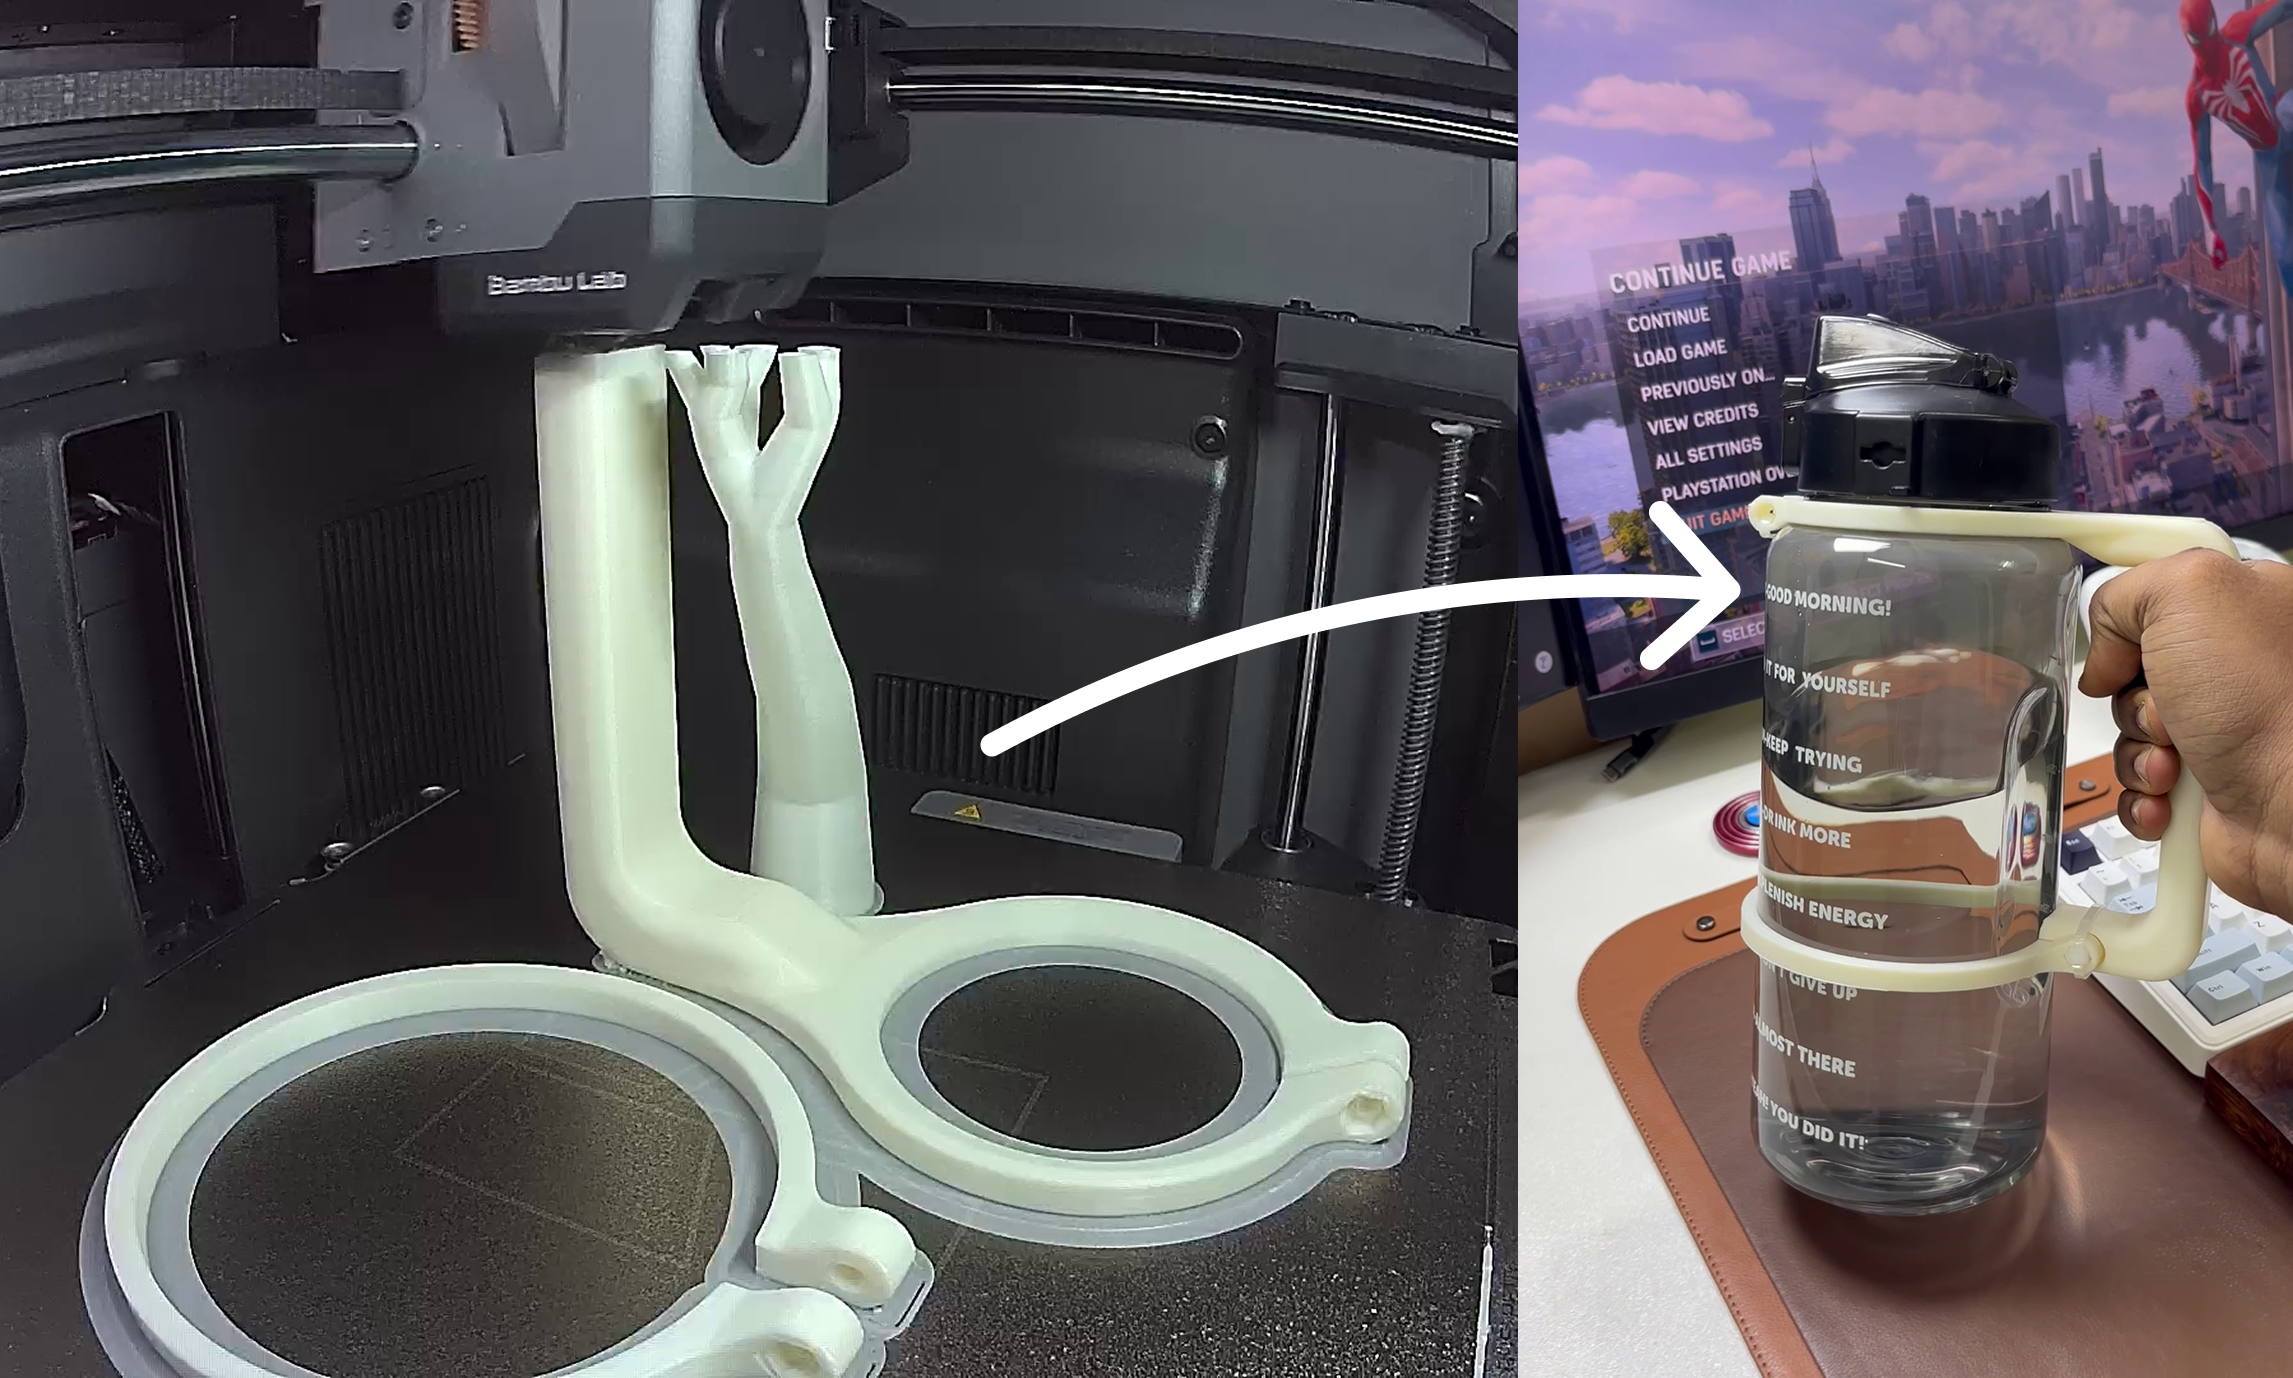
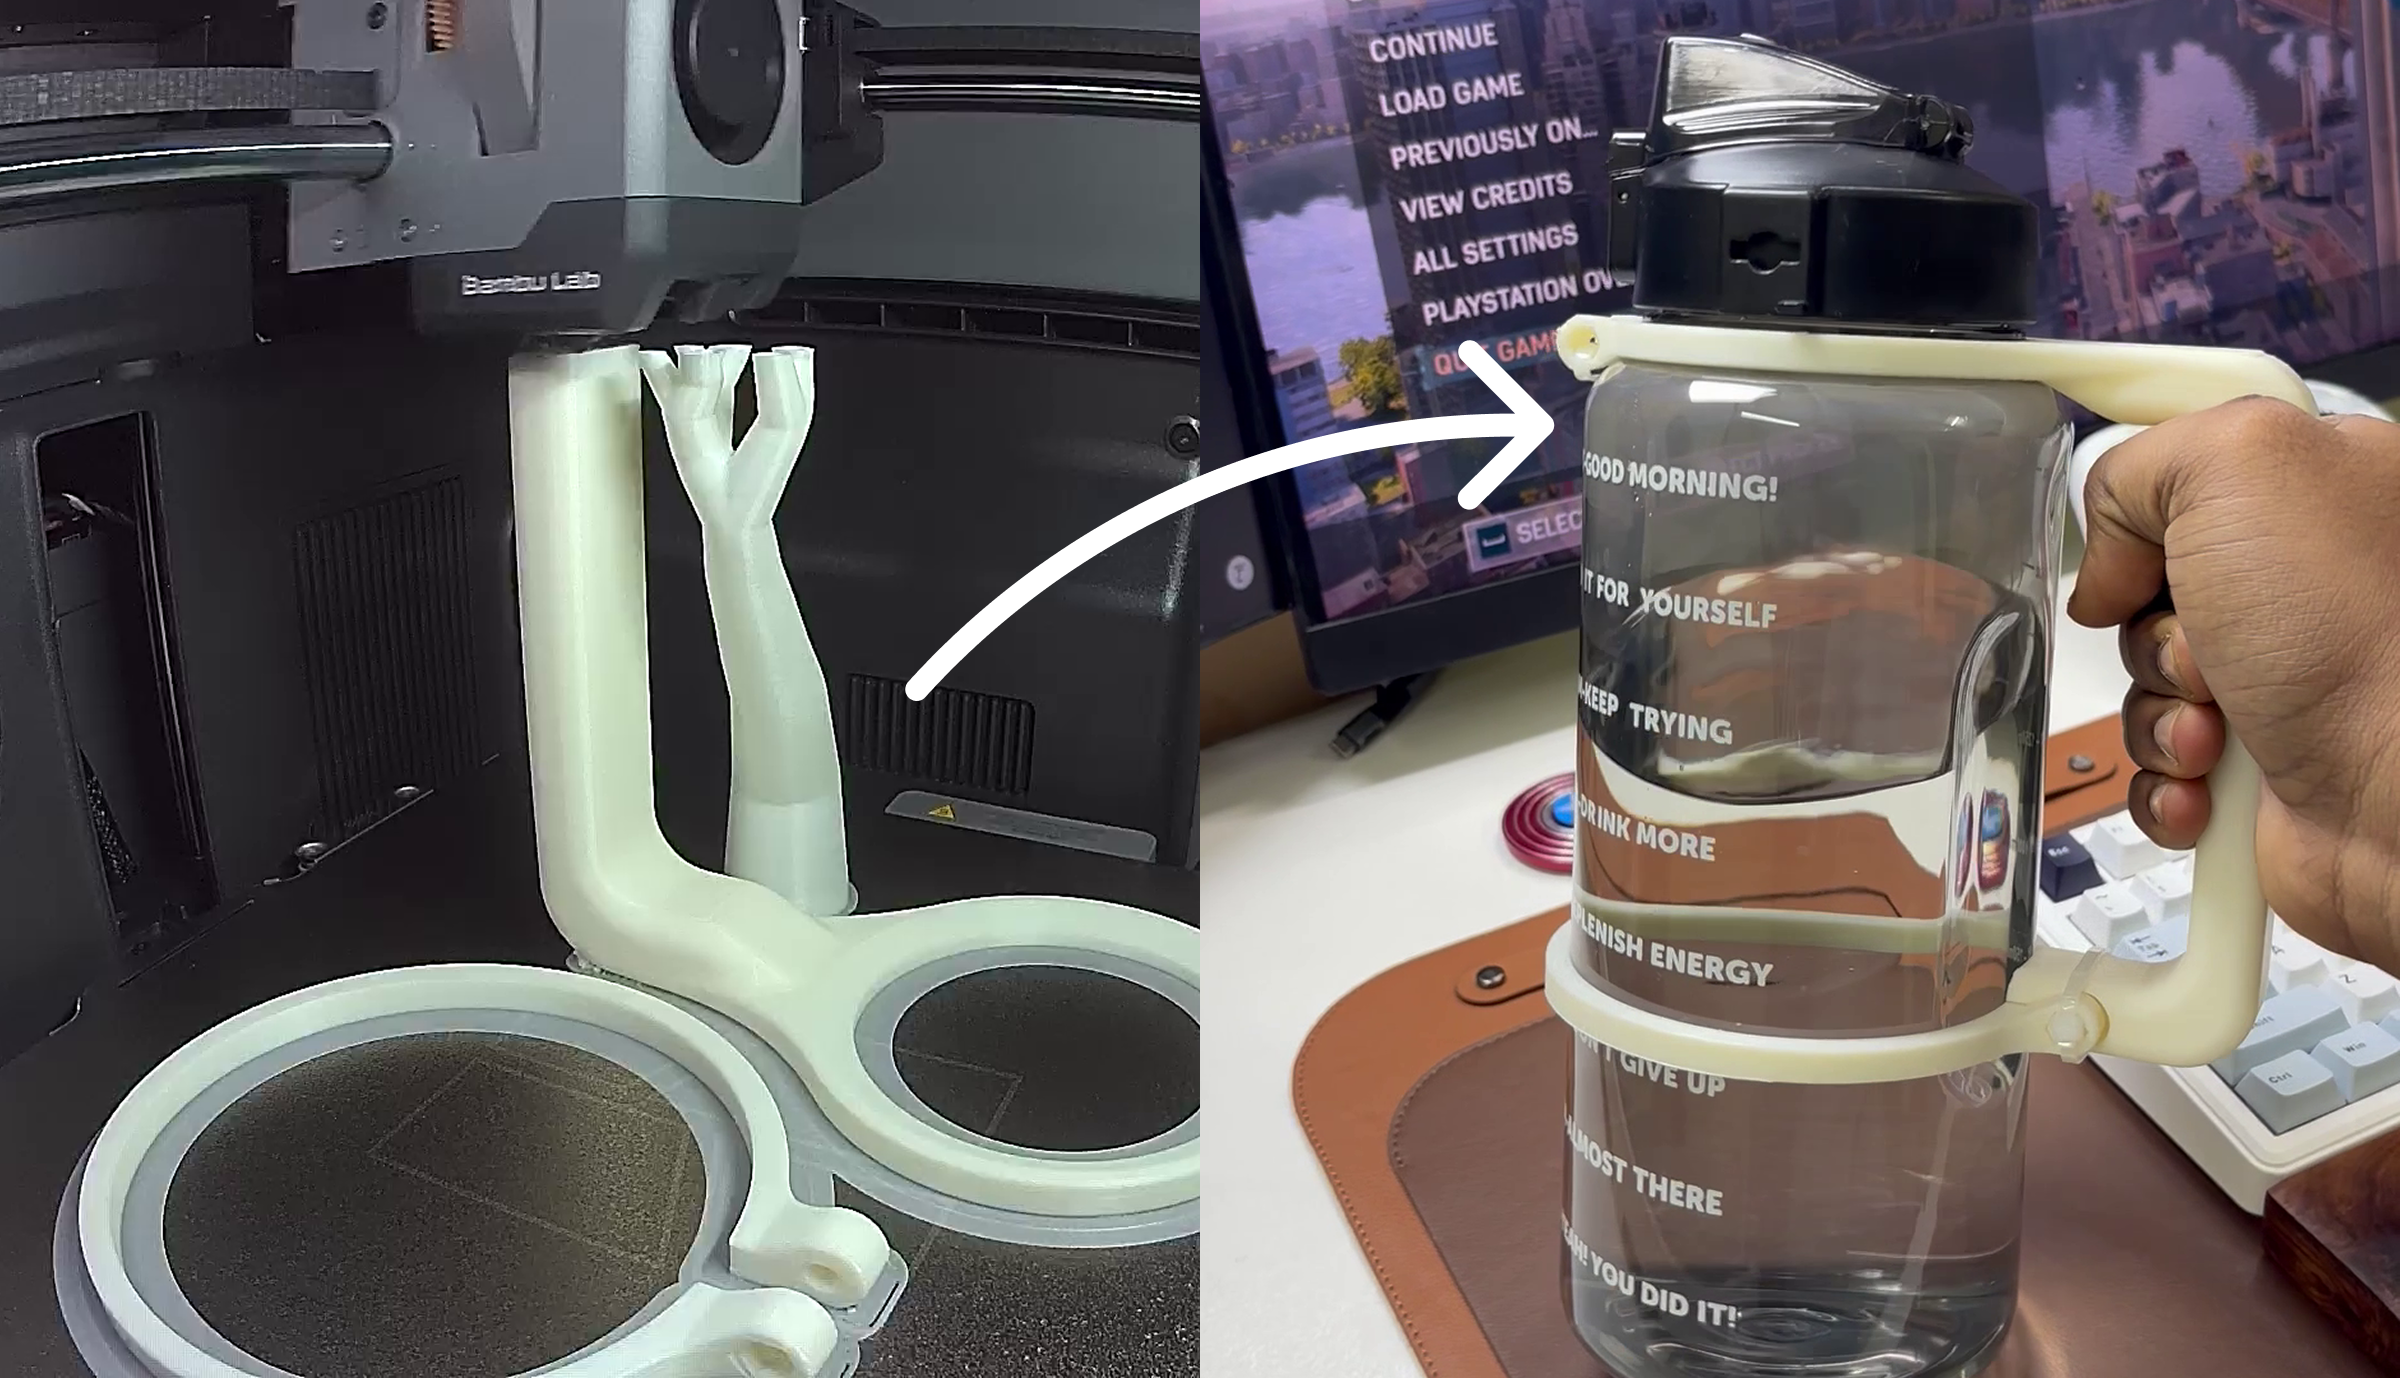
feat: add footer component, stylesheet, and hover image assets

diff --git a/jaspr/lib/components/layout/footer.dart b/jaspr/lib/components/layout/footer.dart
@@ -11,51 +11,53 @@ class PortfolioFooter extends StatelessComponent {
   @override
   Component build(BuildContext context) {
     return footer(classes: classes, [
-      div(classes: 'social-links', [
-        a(
-          href: PortfolioData.mailtoUrl,
-          attributes: {'aria-label': 'Email'},
-          classes: 'social-icon-btn',
-          [
-            RawText(
-              '<svg xmlns="http://www.w3.org/2000/svg" viewBox="0 0 24 24" width="20" height="20" fill="currentColor"><path d="M20 4H4c-1.1 0-1.99.9-1.99 2L2 18c0 1.1.9 2 2 2h16c1.1 0 2-.9 2-2V6c0-1.1-.9-2-2-2zm0 4l-8 5-8-5V6l8 5 8-5v2z"/></svg>',
-            ),
-          ],
-        ),
-        a(
-          href: PortfolioData.linkedinUrl,
-          target: Target.blank,
-          attributes: {'aria-label': 'LinkedIn', 'rel': 'noopener noreferrer'},
-          classes: 'social-icon-btn',
-          [
-            RawText(
-              '<svg xmlns="http://www.w3.org/2000/svg" viewBox="0 0 24 24" width="20" height="20" fill="currentColor"><path d="M19 3a2 2 0 0 1 2 2v14a2 2 0 0 1-2 2H5a2 2 0 0 1-2-2V5a2 2 0 0 1 2-2h14m-.5 15.5v-5.3a3.26 3.26 0 0 0-3.26-3.26c-.85 0-1.84.52-2.28 1.3v-1.11h-2.79v8.37h2.79v-4.93c0-.77.62-1.4 1.39-1.4a1.4 1.4 0 0 1 1.4 1.4v4.93h2.75M6.88 8.56a1.68 1.68 0 0 0 1.68-1.68c0-.93-.75-1.69-1.68-1.69a1.69 1.69 0 0 0-1.69 1.69c0 .93.76 1.68 1.69 1.68m1.39 9.94v-8.37H5.5v8.37h2.77z"/></svg>',
-            ),
-          ],
-        ),
-        a(
-          href: PortfolioData.youtubeUrl,
-          target: Target.blank,
-          attributes: {'aria-label': 'YouTube', 'rel': 'noopener noreferrer'},
-          classes: 'social-icon-btn',
-          [
-            RawText(
-              '<svg xmlns="http://www.w3.org/2000/svg" viewBox="0 0 24 24" width="20" height="20" fill="currentColor"><path d="M23.498 6.186a3.016 3.016 0 0 0-2.122-2.136C19.505 3.545 12 3.545 12 3.545s-7.505 0-9.377.505A3.017 3.017 0 0 0 .502 6.186C0 8.07 0 12 0 12s0 3.93.502 5.814a3.016 3.016 0 0 0 2.122 2.136c1.871.505 9.376.505 9.376.505s7.505 0 9.377-.505a3.015 3.015 0 0 0 2.122-2.136C24 15.93 24 12 24 12s0-3.93-.502-5.814zM9.545 15.568V8.432L15.818 12l-6.273 3.568z"/></svg>',
-            ),
-          ],
-        ),
-        a(
-          href: PortfolioData.instagramUrl,
-          target: Target.blank,
-          attributes: {'aria-label': 'Instagram', 'rel': 'noopener noreferrer'},
-          classes: 'social-icon-btn',
-          [
-            RawText(
-              '<svg xmlns="http://www.w3.org/2000/svg" viewBox="0 0 24 24" width="20" height="20" fill="currentColor"><path d="M12 2.163c3.204 0 3.584.012 4.85.07 3.252.148 4.771 1.691 4.919 4.919.058 1.265.069 1.645.069 4.849 0 3.205-.012 3.584-.069 4.849-.149 3.225-1.664 4.771-4.919 4.919-1.266.058-1.644.07-4.85.07-3.204 0-3.584-.012-4.849-.07-3.26-.149-4.771-1.699-4.919-4.92-.058-1.265-.07-1.644-.07-4.849 0-3.204.013-3.583.07-4.849.149-3.227 1.664-4.771 4.919-4.919 1.266-.057 1.645-.069 4.849-.069zm0-2.163c-3.259 0-3.667.014-4.947.072-4.358.2-6.78 2.618-6.98 6.98-.059 1.281-.073 1.689-.073 4.948 0 3.259.014 3.668.072 4.948.2 4.358 2.618 6.78 6.98 6.98 1.281.058 1.689.072 4.948.072 3.259 0 3.668-.014 4.948-.072 4.354-.2 6.782-2.618 6.979-6.98.059-1.28.073-1.689.073-4.948 0-3.259-.014-3.667-.072-4.947-.196-4.354-2.617-6.78-6.979-6.98-1.281-.059-1.69-.073-4.949-.073zm0 5.838c-3.403 0-6.162 2.759-6.162 6.162s2.759 6.163 6.162 6.163 6.162-2.759 6.162-6.163c0-3.403-2.759-6.162-6.162-6.162zm0 10.162c-2.209 0-4-1.79-4-4 0-2.209 1.791-4 4-4s4 1.791 4 4c0 2.21-1.791 4-4 4zm6.406-11.845c-.796 0-1.441.645-1.441 1.44s.645 1.44 1.441 1.44c.795 0 1.439-.645 1.439-1.44s-.644-1.44-1.439-1.44z"/></svg>',
-            ),
-          ],
-        ),
-      ]),
+      if (classes == 'sidebar-footer') ...[
+        div(classes: 'social-links', [
+          a(
+            href: PortfolioData.mailtoUrl,
+            attributes: {'aria-label': 'Email'},
+            classes: 'social-icon-btn',
+            [
+              RawText(
+                '<svg xmlns="http://www.w3.org/2000/svg" viewBox="0 0 24 24" width="20" height="20" fill="currentColor"><path d="M20 4H4c-1.1 0-1.99.9-1.99 2L2 18c0 1.1.9 2 2 2h16c1.1 0 2-.9 2-2V6c0-1.1-.9-2-2-2zm0 4l-8 5-8-5V6l8 5 8-5v2z"/></svg>',
+              ),
+            ],
+          ),
+          a(
+            href: PortfolioData.linkedinUrl,
+            target: Target.blank,
+            attributes: {'aria-label': 'LinkedIn', 'rel': 'noopener noreferrer'},
+            classes: 'social-icon-btn',
+            [
+              RawText(
+                '<svg xmlns="http://www.w3.org/2000/svg" viewBox="0 0 24 24" width="20" height="20" fill="currentColor"><path d="M19 3a2 2 0 0 1 2 2v14a2 2 0 0 1-2 2H5a2 2 0 0 1-2-2V5a2 2 0 0 1 2-2h14m-.5 15.5v-5.3a3.26 3.26 0 0 0-3.26-3.26c-.85 0-1.84.52-2.28 1.3v-1.11h-2.79v8.37h2.79v-4.93c0-.77.62-1.4 1.39-1.4a1.4 1.4 0 0 1 1.4 1.4v4.93h2.75M6.88 8.56a1.68 1.68 0 0 0 1.68-1.68c0-.93-.75-1.69-1.68-1.69a1.69 1.69 0 0 0-1.69 1.69c0 .93.76 1.68 1.69 1.68m1.39 9.94v-8.37H5.5v8.37h2.77z"/></svg>',
+              ),
+            ],
+          ),
+          a(
+            href: PortfolioData.youtubeUrl,
+            target: Target.blank,
+            attributes: {'aria-label': 'YouTube', 'rel': 'noopener noreferrer'},
+            classes: 'social-icon-btn',
+            [
+              RawText(
+                '<svg xmlns="http://www.w3.org/2000/svg" viewBox="0 0 24 24" width="20" height="20" fill="currentColor"><path d="M23.498 6.186a3.016 3.016 0 0 0-2.122-2.136C19.505 3.545 12 3.545 12 3.545s-7.505 0-9.377.505A3.017 3.017 0 0 0 .502 6.186C0 8.07 0 12 0 12s0 3.93.502 5.814a3.016 3.016 0 0 0 2.122 2.136c1.871.505 9.376.505 9.376.505s7.505 0 9.377-.505a3.015 3.015 0 0 0 2.122-2.136C24 15.93 24 12 24 12s0-3.93-.502-5.814zM9.545 15.568V8.432L15.818 12l-6.273 3.568z"/></svg>',
+              ),
+            ],
+          ),
+          a(
+            href: PortfolioData.instagramUrl,
+            target: Target.blank,
+            attributes: {'aria-label': 'Instagram', 'rel': 'noopener noreferrer'},
+            classes: 'social-icon-btn',
+            [
+              RawText(
+                '<svg xmlns="http://www.w3.org/2000/svg" viewBox="0 0 24 24" width="20" height="20" fill="currentColor"><path d="M12 2.163c3.204 0 3.584.012 4.85.07 3.252.148 4.771 1.691 4.919 4.919.058 1.265.069 1.645.069 4.849 0 3.205-.012 3.584-.069 4.849-.149 3.225-1.664 4.771-4.919 4.919-1.266.058-1.644.07-4.85.07-3.204 0-3.584-.012-4.849-.07-3.26-.149-4.771-1.699-4.919-4.92-.058-1.265-.07-1.644-.07-4.849 0-3.204.013-3.583.07-4.849.149-3.227 1.664-4.771 4.919-4.919 1.266-.057 1.645-.069 4.849-.069zm0-2.163c-3.259 0-3.667.014-4.947.072-4.358.2-6.78 2.618-6.98 6.98-.059 1.281-.073 1.689-.073 4.948 0 3.259.014 3.668.072 4.948.2 4.358 2.618 6.78 6.98 6.98 1.281.058 1.689.072 4.948.072 3.259 0 3.668-.014 4.948-.072 4.354-.2 6.782-2.618 6.979-6.98.059-1.28.073-1.689.073-4.948 0-3.259-.014-3.667-.072-4.947-.196-4.354-2.617-6.78-6.979-6.98-1.281-.059-1.69-.073-4.949-.073zm0 5.838c-3.403 0-6.162 2.759-6.162 6.162s2.759 6.163 6.162 6.163 6.162-2.759 6.162-6.163c0-3.403-2.759-6.162-6.162-6.162zm0 10.162c-2.209 0-4-1.79-4-4 0-2.209 1.791-4 4-4s4 1.791 4 4c0 2.21-1.791 4-4 4zm6.406-11.845c-.796 0-1.441.645-1.441 1.44s.645 1.44 1.441 1.44c.795 0 1.439-.645 1.439-1.44s-.644-1.44-1.439-1.44z"/></svg>',
+              ),
+            ],
+          ),
+        ]),
+      ],
       a(
         href: PortfolioData.resumePdfPath,
         target: Target.blank,

diff --git a/jaspr/web/styles.css b/jaspr/web/styles.css
@@ -645,6 +645,7 @@ body {
 
 .project-period {
   color: var(--text-muted);
+  text-align: end;
 }
 
 .project-header {
@@ -1337,7 +1338,6 @@ body.lightbox-open {
     flex-direction: column;
     gap: 20px;
     padding-top: 48px;
-    border-top: 1px solid var(--border-subtle);
     margin-top: 24px;
   }
 
@@ -1447,18 +1447,10 @@ body.lightbox-open {
     align-self: flex-start;
   }
 
-  .contact-row {
-    flex-direction: column;
+        .contact-row {
     align-items: flex-start;
     gap: 10px;
     padding: 12px 14px;
-  }
-
-  .contact-action-group {
-    width: 100%;
-    justify-content: space-between;
-    flex-wrap: wrap;
-    gap: 8px;
   }
 
   .contact-value-link {
